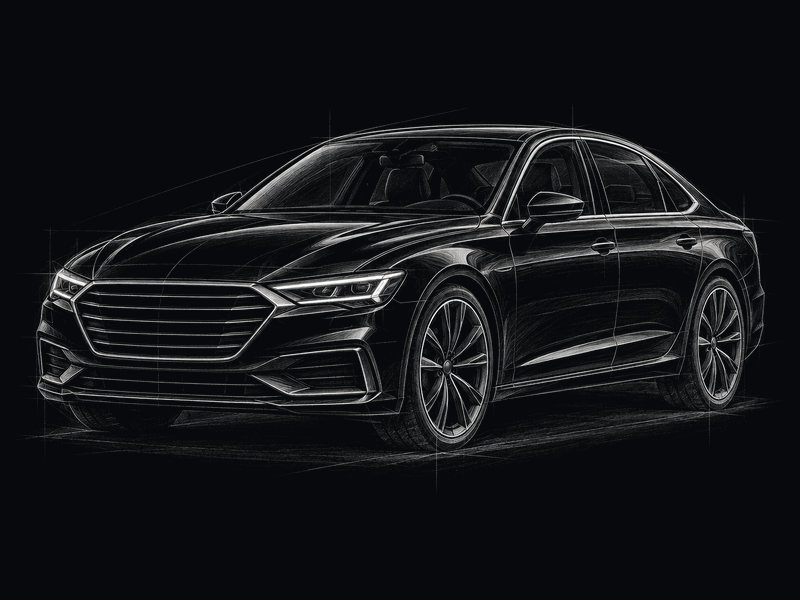
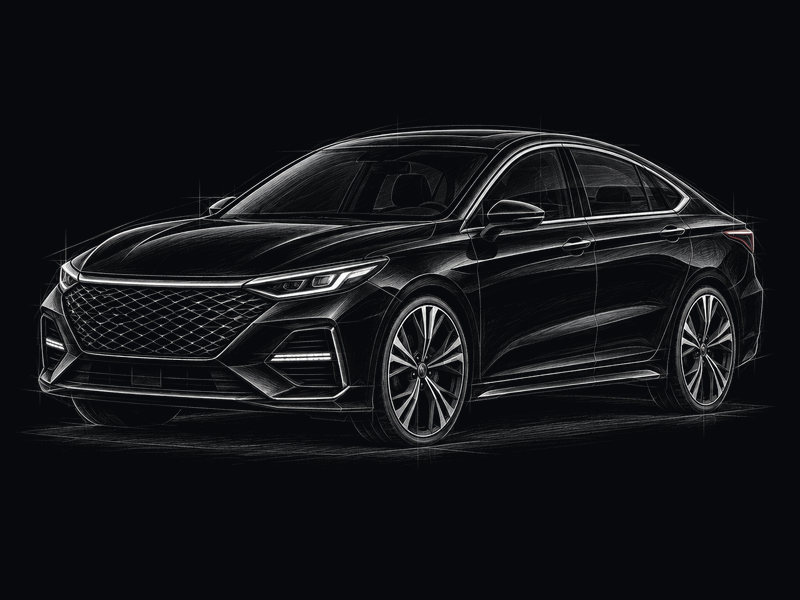
feat: troca ilustracao do sedan executivo pelo arrizo 6

Changed region(s): [[0.0312, 0.21, 0.9688, 0.78], [0.3125, 0.75, 0.3438, 0.78]]

diff --git a/images/frota/README.md b/images/frota/README.md
@@ -29,3 +29,7 @@ python3 scripts/bake-fleet-images.py <pasta_com_os_pngs> images/frota
 ```
 
 Saída: `sedan.jpg`, `suv.jpg`, `minivan.jpg`, `van.jpg` em 800x600. Se a cor de fundo da seção mudar em `src/styles/fleet.css`, atualize `SECTION` no script e rode de novo.
+
+## Sedã (Chery Arrizo 6 2021)
+
+O `sedan.jpg` foi gerado com o prompt base, usando no lugar de `{veículo}` a descrição do Arrizo 6 turbo 2021: silhueta de cupê de quatro portas com teto caindo até a traseira curta, grade larga em colmeia de losangos com friso cromado, faróis finos puxados para trás com barra de LED, entradas de ar angulares com filetes de LED, vinco de ombro até a lanterna fina e rodas de raios duplos. Sem logo, emblema ou placa. Tratado com o mesmo script de tratamento.
